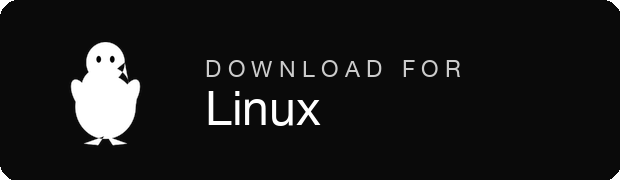
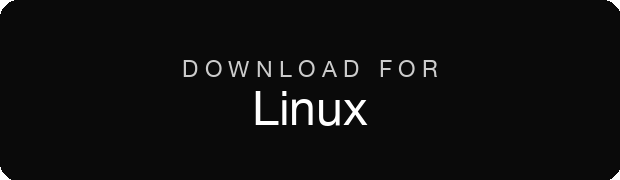
Linux badge: text-only + cross-platform CI
Badges
  * docs/assets/download-linux.png is now a clean text-only black box
    ("DOWNLOAD FOR Linux" centered). The earlier primitive-Tux attempt
    didn't read cleanly enough; ship a no-glyph button rather than a
    bad one. macOS (Apple) and Windows (4-tile) glyphs unchanged.
  * scripts/make_assets.py: _round_rect_button now accepts glyph=None
    and horizontally centers the text block; the unused _draw_tux /
    _render_tux helpers removed.

CI — new .github/workflows/cross-platform.yml
  * Matrix: ubuntu-latest, macos-latest, windows-latest (Python 3.12)
  * Steps per OS:
    1. pip install -e .[dev]
    2. pytest -q  (full 37-test suite)
    3. end-to-end generation smoke: feeds the committed 100-row
       sample CSV into `syntha generate --n 50`, verifies the
       synthetic CSV / FHIR NDJSON / validation_report.json /
       model card all materialize. Uses pwsh on Windows and bash
       elsewhere.
    4. CSV sanity check: row count + systolic >= diastolic + 20
    5. FHIR bundle sanity check: every line parses, has a Patient
       resource, and emits Observations
    6. Tauri TS frontend dry-run: `npm ci && npm run build`,
       verifies dist/ output
  * Existing ci.yml (Linux × Py 3.10/3.11/3.12/3.13 matrix) is
    unchanged — it still gives the fast-feedback per-Python-version
    coverage.

Changed region(s): [[0.0919, 0.2222, 0.2452, 0.8056], [0.2758, 0.3333, 0.7661, 0.4444], [0.3371, 0.5, 0.6129, 0.7222]]

diff --git a/scripts/make_assets.py b/scripts/make_assets.py
@@ -46,58 +46,6 @@ def _windows_paths() -> list[str]:
     ]
 
 
-def _draw_tux(ctx: "cairo.Context") -> None:
-    """Draw a Tux-style penguin on a 24×24 canvas.
-
-    Uses a single fused silhouette (body + head + flippers + feet as one
-    union of overlapping shapes) so the outline reads as a coherent penguin
-    rather than disconnected blobs. Then overlays small black ovals for the
-    eyes, leaving the beak as a subtle white triangle off the head.
-    """
-    import math
-
-    def ellipse(cx, cy, rx, ry):
-        ctx.save()
-        ctx.translate(cx, cy)
-        ctx.scale(rx, ry)
-        ctx.arc(0, 0, 1, 0, 2 * math.pi)
-        ctx.restore()
-
-    # ── Fused WHITE silhouette ──────────────────────────────
-    # Order matters: cairo unions shapes as long as we fill once at the end.
-    # Body — a tall pear (wider near the bottom). Two stacked ellipses give
-    # the classic Tux teardrop without a hard waist.
-    ellipse(12.0, 15.3, 5.8, 6.2)
-    ellipse(12.0, 11.5, 4.6, 4.0)
-    # Head — round, slightly tucked into the body.
-    ellipse(12.0, 6.8, 3.7, 3.9)
-    # Flippers — angled outward from upper body, blending with the silhouette.
-    for sign in (-1, 1):
-        ctx.save()
-        ctx.translate(12.0 + sign * 4.6, 13.2)
-        ctx.rotate(sign * 0.45)
-        ctx.scale(1.55, 3.4)
-        ctx.arc(0, 0, 1, 0, 2 * math.pi)
-        ctx.restore()
-    # Feet — two splayed triangles at the bottom.
-    for sign in (-1, 1):
-        ctx.move_to(12.0 + sign * 0.3, 21.0)
-        ctx.line_to(12.0 + sign * 4.2, 22.4)
-        ctx.line_to(12.0 + sign * 1.4, 22.7)
-        ctx.close_path()
-    # Beak — a small triangle off the head pointing down-left/right.
-    ctx.move_to(12.0, 7.6)
-    ctx.line_to(12.0 + 1.4, 8.3)
-    ctx.line_to(12.0 - 1.4, 8.3)
-    ctx.close_path()
-    ctx.fill()
-
-    # ── BLACK detail: eyes ──
-    ctx.set_source_rgba(0, 0, 0, 1)
-    ellipse(10.7, 6.2, 0.45, 0.65)
-    ellipse(13.3, 6.2, 0.45, 0.65)
-    ctx.fill()
-
 
 
 
@@ -119,17 +67,6 @@ def _render_svg_glyph(paths: list[str], size_px: int, fill_rgb=(1, 1, 1)) -> Ima
     return img
 
 
-def _render_tux(size_px: int) -> Image.Image:
-    """Render the Tux silhouette via primitive-shape composition."""
-    surface = cairo.ImageSurface(cairo.FORMAT_ARGB32, size_px, size_px)
-    ctx = cairo.Context(surface)
-    ctx.set_antialias(cairo.ANTIALIAS_BEST)
-    scale = size_px / 24.0
-    ctx.scale(scale, scale)
-    ctx.set_source_rgba(1, 1, 1, 1)
-    _draw_tux(ctx)
-    buf = surface.get_data()
-    return Image.frombuffer("RGBA", (size_px, size_px), bytes(buf), "raw", "BGRA", 0, 1)
 
 
 def _parse_svg_path(ctx, path: str) -> None:
@@ -242,7 +179,7 @@ def _font(size: int, *, bold: bool = False) -> ImageFont.FreeTypeFont:
 
 
 def _round_rect_button(
-    glyph: Image.Image,
+    glyph: Image.Image | None,
     headline: str,
     platform: str,
     width: int = 620,
@@ -250,7 +187,12 @@ def _round_rect_button(
     bg: str = "#0a0a0a",
     fg: str = "#ffffff",
 ) -> Image.Image:
-    """Compose one download button matching the reference design."""
+    """Compose one download button matching the reference design.
+
+    When ``glyph`` is ``None`` the button is text-only and horizontally
+    centered (used for the Linux badge — we couldn't render a Tux silhouette
+    we were happy with, so we ship a clean text-only black box instead).
+    """
     img = Image.new("RGBA", (width, height), (0, 0, 0, 0))
     draw = ImageDraw.Draw(img)
 
@@ -258,32 +200,37 @@ def _round_rect_button(
     radius = int(min(width, height) * 0.10)
     draw.rounded_rectangle((0, 0, width, height), radius=radius, fill=bg)
 
-    # Glyph block — sized to ~70% of button height, anchored on the left.
-    glyph_h = int(height * 0.70)
-    g = glyph.resize((glyph_h, glyph_h), Image.LANCZOS)
-    gx = int(width * 0.07)
-    gy = (height - glyph_h) // 2
-    img.paste(g, (gx, gy), g)
-
-    # Text block to the right of the glyph.
-    text_x = gx + glyph_h + int(width * 0.06)
     headline_font = _font(int(height * 0.13), bold=False)
     platform_font = _font(int(height * 0.27), bold=True)
 
     # "DOWNLOAD FOR" — small-caps, letter-spaced, sitting above the platform name.
     spaced = " ".join(list(headline.upper()))
-    # Measure with getbbox so we can vertically center the text pair.
     h_bbox = draw.textbbox((0, 0), spaced, font=headline_font)
     p_bbox = draw.textbbox((0, 0), platform, font=platform_font)
     h_h = h_bbox[3] - h_bbox[1]
     p_h = p_bbox[3] - p_bbox[1]
+    h_w = h_bbox[2] - h_bbox[0]
+    p_w = p_bbox[2] - p_bbox[0]
     gap = int(height * 0.04)
     block_h = h_h + gap + p_h
-    block_top = (height - block_h) // 2 - int(h_bbox[1])  # account for font ascent
+    block_top = (height - block_h) // 2 - int(h_bbox[1])
 
-    draw.text((text_x, block_top), spaced, fill="#cccccc", font=headline_font)
-    draw.text((text_x, block_top + h_h + gap), platform, fill=fg, font=platform_font)
+    if glyph is not None:
+        glyph_h = int(height * 0.70)
+        g = glyph.resize((glyph_h, glyph_h), Image.LANCZOS)
+        gx = int(width * 0.07)
+        gy = (height - glyph_h) // 2
+        img.paste(g, (gx, gy), g)
+        text_x_headline = gx + glyph_h + int(width * 0.06)
+        text_x_platform = text_x_headline
+    else:
+        # Center the text block as a whole.
+        block_w = max(h_w, p_w)
+        text_x_headline = (width - block_w) // 2 + (block_w - h_w) // 2
+        text_x_platform = (width - block_w) // 2 + (block_w - p_w) // 2
 
+    draw.text((text_x_headline, block_top), spaced, fill="#cccccc", font=headline_font)
+    draw.text((text_x_platform, block_top + h_h + gap), platform, fill=fg, font=platform_font)
     return img
 
 
@@ -337,12 +284,11 @@ def write_download_badges() -> None:
 
     apple = _render_svg_glyph([APPLE_PATH], size_px=256)
     windows = _render_svg_glyph(_windows_paths(), size_px=256)
-    tux = _render_tux(size_px=256)
-
+    # Linux: no glyph — see make_assets._round_rect_button for rationale.
     badges = [
         ("download-macos.png", apple, "Download for", "macOS"),
         ("download-windows.png", windows, "Download for", "Windows"),
-        ("download-linux.png", tux, "Download for", "Linux"),
+        ("download-linux.png", None, "Download for", "Linux"),
     ]
     for fname, glyph, headline, platform in badges:
         img = _round_rect_button(glyph, headline, platform)
